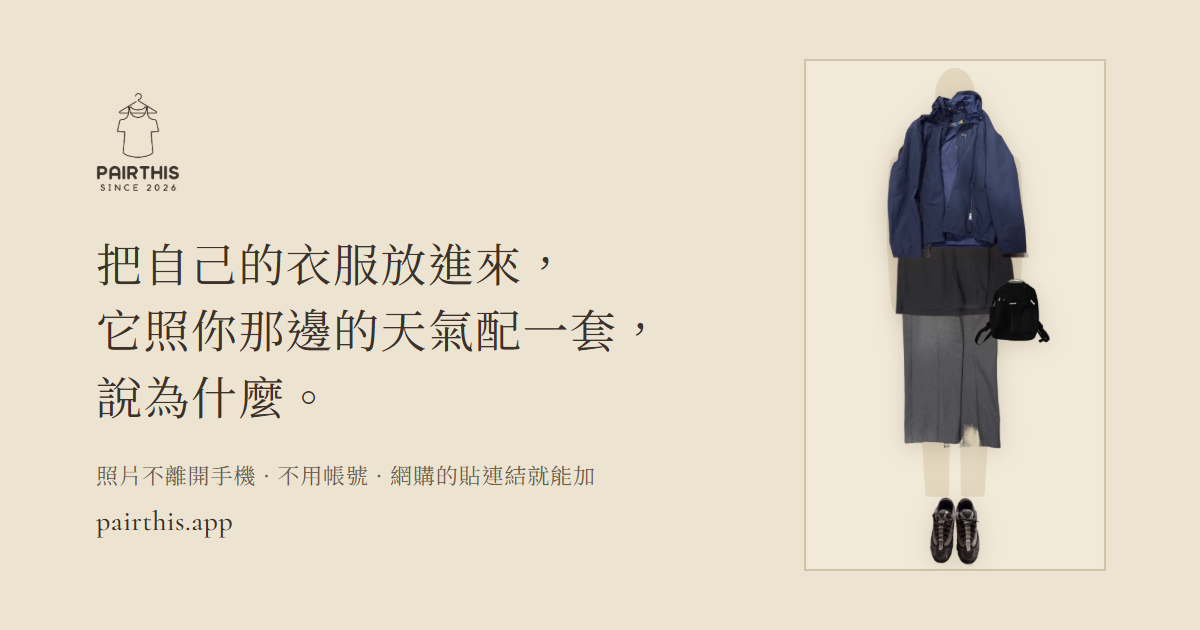
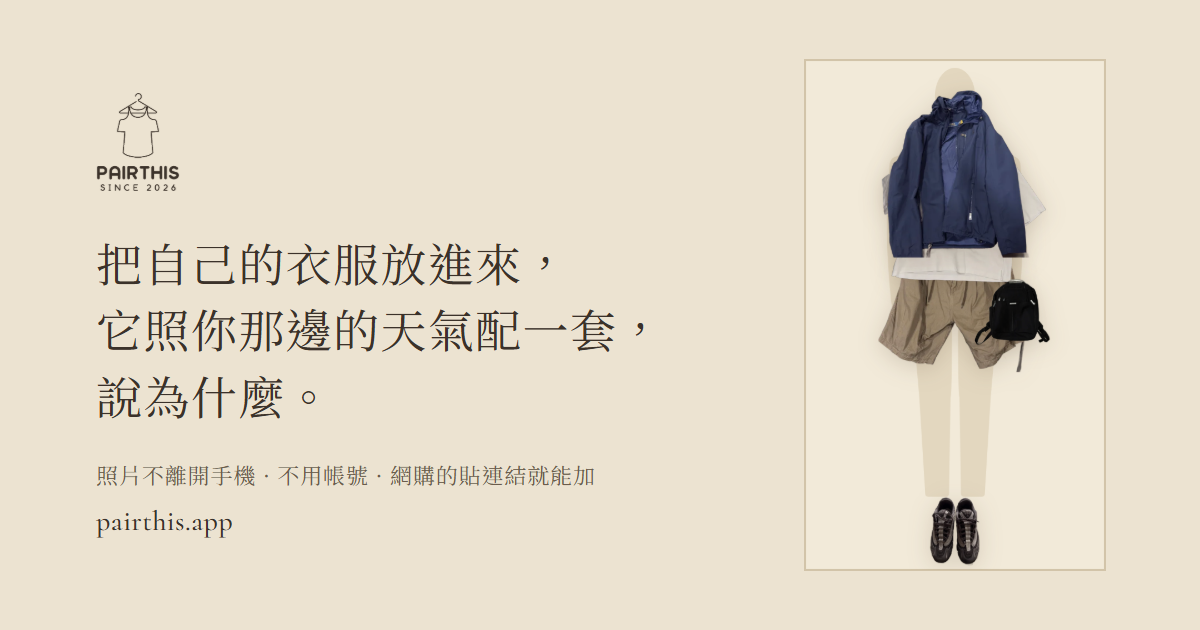
示範衣櫃換掉 7 件拍得不好的,分享圖跟著重產
本人要入口好看一點、用自己拍的:示範 20 件裡皺成一團、有污漬感、去背沒乾淨的 7 件,
換成站主衣櫃裡同類、同保暖度、同場合、下雨可不可以一樣的另一件(米白重磅短袖T、黑色五分袖T、
淺藍牛津襯衫、淺麻灰長袖T、淺灰垂墜寬管長褲、灰色西裝長褲、米白半月斜背包)。
推薦模擬 14 種體感 × 雨/晴 × 40 次,換前換後怪搭配都是 0。og.png 的人台換成新的那套。

Changed region(s): [[0.7092, 0.3921, 0.8633, 0.7238], [0.8325, 0.3016, 0.8633, 0.3619], [0.7092, 0.2714, 0.74, 0.3317]]

diff --git a/src/demoCloset.js b/src/demoCloset.js
@@ -5,25 +5,29 @@
 // 挑法:色系收在黑白灰藍和一點大地色;冷熱、下雨都配得出來(不怕雨的鞋、外套至少各一件);不放球衣和拖鞋。
 //
 // 線上只有這 20 件是公開的(/data/wardrobe.json);站主完整的衣櫃要帶同步碼從 /api/closet 拿。
+// 2026-10-23 本人「換幾張更好的、我們自己拍的圖」:皺成一團、有污漬感、去背沒乾淨的 7 件換成同類、同保暖度、
+// 同場合、下雨可不可以一樣(或更好)的另一件;模擬 14 種體感 × 下雨/晴 × 40 次,換前換後怪搭配都是 0
+// (work/demo-pick-2026-10-23/simulate.mjs)。換掉的:米白重磅短袖T、黑色寬版五分袖T、淺藍牛津襯衫、
+// 淺麻灰長袖T、淺灰垂墜寬管長褲(換成炭灰丹寧寬版長褲;深灰工裝褲試過,上人台皺成一團)、灰色打褶西裝長褲、米白尼龍半月斜背包。
 export const DEMO_IDS = [
-  "import-2babbda3-ffc5-451e-9dbd-bcb0d72d3df4",   // 米白重磅純棉寬鬆短袖T恤
-  "import-a50e6d4d-0180-4a34-90cb-7c6eb55e4657",   // 黑色寬版五分袖T恤
-  "import-700776e2-2a0a-4595-8989-e6ba0e46adc7",   // 淺藍牛津紡扣領長袖襯衫
-  "import-cc67aa00-f5b8-4135-959c-562b30ad671a",   // 淺麻灰圓領長袖T恤
+  "import-694650a4-f2fb-40f4-b68a-c8fccc2cddd2",   // 白色寬版落肩五分袖素T
+  "import-a3212656-bed2-4d19-9c42-6459a74df39d",   // 黑色水洗丹寧亨利領短袖上衣
+  "import-a397925c-5639-4377-9b93-62cd34a0d567",   // 白色棉質長袖襯衫
+  "import-b7b7008a-6b86-4e7b-8079-1c716894171a",   // 米白胸前口袋落肩長袖T恤
   "import-edf302da-c12b-493e-a9ca-c2c6b6b37ff3",   // 灰藍棉質落肩圓領大學T
   "import-96009ee3-ddab-4eb9-9c7c-38517eef7725",   // 深藍羅紋針織圓領毛衣
   "import-6677979f-0212-433d-9c9d-a1b5a3d8b9f1",   // 深藍連帽防風外套(下雨用)
   "import-27d0fd02-3ba6-4db0-91bc-1e94549142d0",   // 深藍原色丹寧四口袋工裝外套
   "import-7d5deaad-dac0-4391-9c09-e62d4d60446a",   // 駝色斜紋厚棉襯衫式外套
   "import-2c84275b-6dde-48a4-9f91-b5c2817762ed",   // 深褐黑水洗直筒牛仔褲
-  "import-c696e8ca-2d60-487b-a56e-d7a8ece4e31c",   // 灰色抽繩打褶寬版西裝長褲
-  "import-bd085536-c7ef-4b36-9c3c-9e5b4ffa3188",   // 淺灰垂墜抽繩寬管長褲
+  "import-b433fbef-efd5-45a7-af92-5bedc8ad01d2",   // 黑色西裝長褲
+  "import-541a8bc2-1554-4ee3-9694-39653974f146",   // 炭灰水洗丹寧寬版長褲
   "import-8cd1cfa3-7f8e-4f43-9ee2-11c0dad23c7c",   // 卡其棉質抽繩寬版短褲
   "import-7bc2fc11-8b9b-44dd-aac2-ff708aa3e2e3",   // 深藍斜紋棉休閒短褲
   "import-9a5fc2a3-c5c0-4220-b018-cb4a974c09a5",   // 灰紫機能復古慢跑鞋(下雨用)
   "import-719b4862-b21c-4137-85e4-b9d61ac0fa22",   // 米白帆布側拉鍊高筒鞋
   "import-47d9abaf-d6c9-4531-96f1-dbb801789d03",   // 黑色真皮厚底休閒鞋
-  "import-99c790ca-341c-4c23-bbc1-76429db53aa8",   // 米白尼龍半月斜背包
+  "import-240d1da5-04de-4f2d-aa5f-b742454a3b6d",   // 黑色尼龍皮革拼接單肩腰包
   "import-0f200539-74a5-4378-bd43-37c213e3efd3",   // 黑色尼龍電腦後背包
   "import-e5760458-670c-4382-a20c-00ae090c6cbb",   // 白色羅紋中筒襪
 ];
